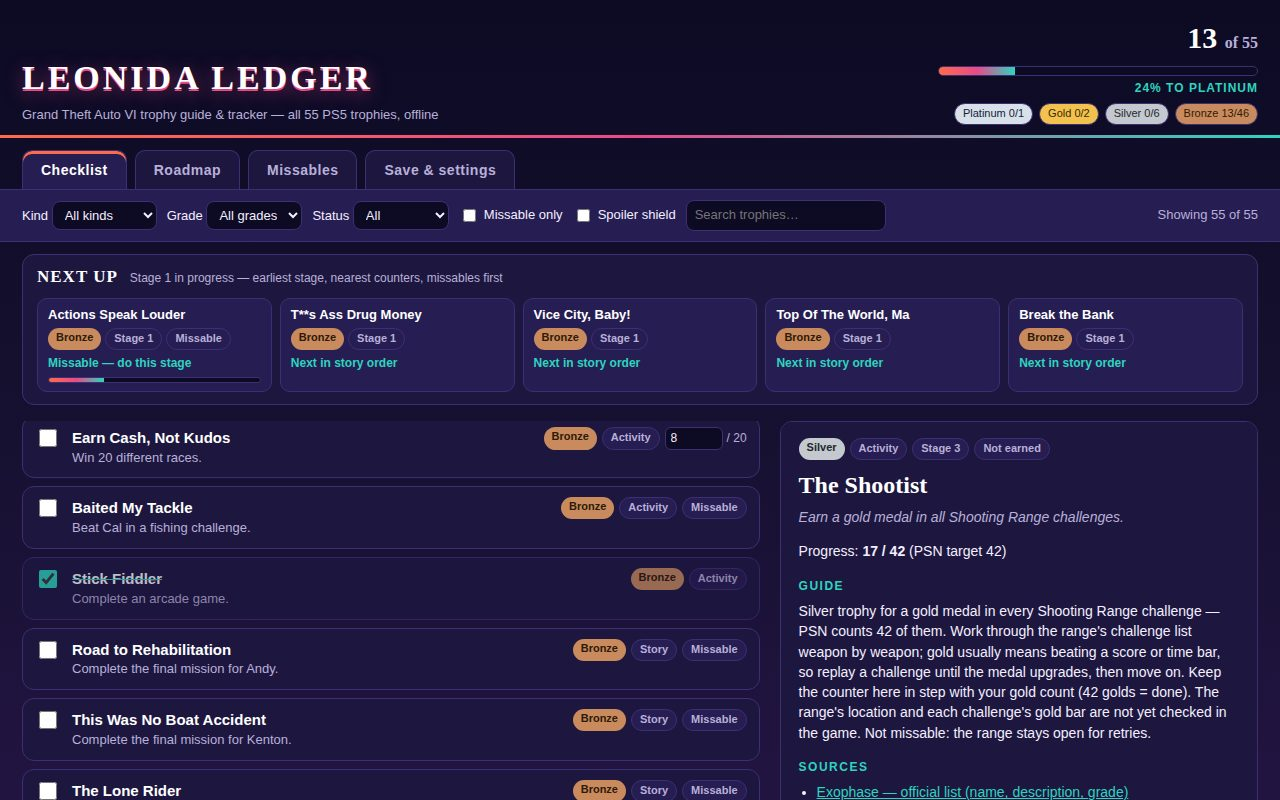
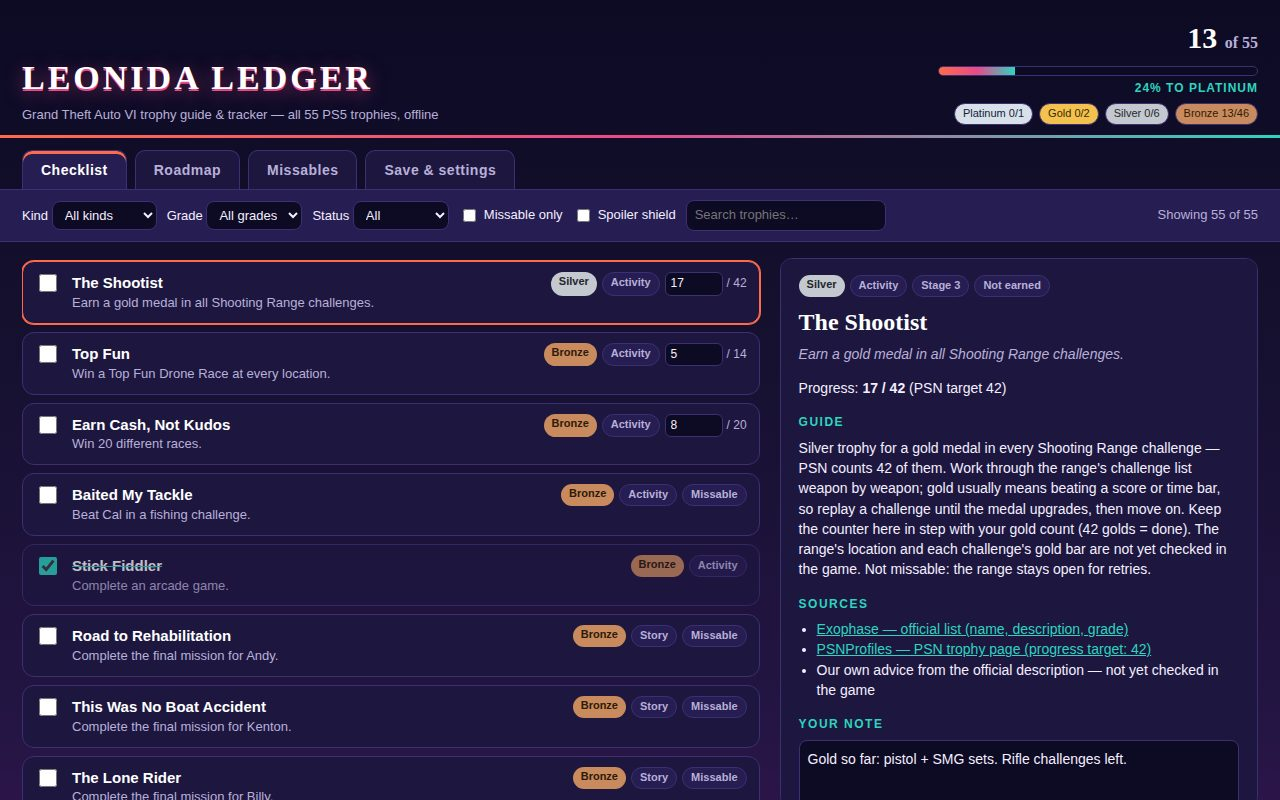
V3: move Next-up planner to Roadmap view, restore v1 checklist cover, re-stage screenshots

Changed region(s): [[0.0, 0.3125, 0.9688, 1.0]]

diff --git a/app/js/main.js b/app/js/main.js
@@ -49,28 +49,22 @@ function render() {
   const main = document.getElementById('view-main');
   const detail = document.getElementById('detail-pane');
   const bar = document.getElementById('filter-bar');
-  const nextUp = document.getElementById('next-up');
   if (state.view === 'checklist') {
     bar.hidden = false;
-    nextUp.hidden = false;
     main.innerHTML = renderChecklist(state.trophies, state.progress, state.filters, state.selectedId);
     const count = main.querySelectorAll('.row').length;
     bar.innerHTML = renderFilterBar(state.filters, state.progress, count, state.trophies.length);
-    nextUp.innerHTML = renderNextUp(state.trophies, state.progress);
     detail.innerHTML = renderDetailPane(selectedTrophy(), state.progress);
   } else if (state.view === 'roadmap') {
     bar.hidden = true;
-    nextUp.hidden = true;
-    main.innerHTML = renderRoadmapView(state.trophies, state.progress);
+    main.innerHTML = '<section id="next-up" class="next-up" aria-label="Next up planner">' + renderNextUp(state.trophies, state.progress) + '</section>' + renderRoadmapView(state.trophies, state.progress);
     detail.innerHTML = renderDetailPane(selectedTrophy(), state.progress);
   } else if (state.view === 'missables') {
     bar.hidden = true;
-    nextUp.hidden = true;
     main.innerHTML = renderMissablesView(state.trophies, state.progress);
     detail.innerHTML = renderDetailPane(selectedTrophy(), state.progress);
   } else {
     bar.hidden = true;
-    nextUp.hidden = true;
     main.innerHTML = renderSaveView(state.progress);
     detail.innerHTML = renderDetailPane(selectedTrophy(), state.progress);
   }

diff --git a/app/css/base.css b/app/css/base.css
@@ -137,7 +137,7 @@ body {
   .stat-chips { justify-content: flex-start; }
 }
 
-.next-up { margin: 12px 22px 0; background: var(--panel); border: 1px solid var(--line); border-radius: var(--radius); padding: 10px 14px 12px; }
+.next-up { margin: 0; background: var(--panel); border: 1px solid var(--line); border-radius: var(--radius); padding: 10px 14px 12px; }
 .next-up[hidden] { display: none; }
 .next-up-head { display: flex; align-items: baseline; gap: 12px; flex-wrap: wrap; }
 .next-up-head h2 { font-family: Georgia, serif; font-size: 17px; margin: 0; color: #fff; letter-spacing: 1px; text-transform: uppercase; }

diff --git a/app/index.html b/app/index.html
@@ -21,7 +21,6 @@
   <button type="button" data-view="save">Save &amp; settings</button>
 </nav>
 <div id="filter-bar" class="filter-bar"></div>
-<section id="next-up" class="next-up" aria-label="Next up planner"></section>
 <main class="layout">
   <section id="view-main" class="view-main" aria-label="Trophy list"></section>
   <aside id="detail-pane" class="detail-pane" aria-label="Trophy guide detail"></aside>

diff --git a/README.md b/README.md
@@ -9,7 +9,7 @@ An offline guide and tracker for all 55 PlayStation 5 trophies of Grand Theft Au
 ## What it is
 
 - **Checklist** of the official 55 (1 platinum, 2 gold, 6 silver, 46 bronze) with official names, descriptions and grades, saved progress in `localStorage`, progress counters for the 22 trophies PSN tracks by count (42 Shooting Range golds, 250 stunts, 100 WAiNK locations, …), per-trophy notes, and filters by kind, grade, status, missable-only and text search.
-- **Next-up planner** above the checklist: the next five unearned trophies, earliest roadmap stage first, counters nearest completion first (e.g. 17/42), missables in the current stage flagged — click one to open its guide.
+- **Next-up planner** at the top of the Roadmap view: the next five unearned trophies, earliest roadmap stage first, counters nearest completion first (e.g. 17/42), missables in the current stage flagged — click one to open its guide.
 - **Keyboard shortcuts**: `j`/`k` or arrows move the selection, `Space`/`Enter` toggles earned, `/` focuses search, `1`–`4` switch views.
 - **Guide pane** for every trophy: our own words from the official description — what to do, how to track it, when it can be missed — with sources cited beside each guide (Exophase for the official list, PSNProfiles for PSN counts, and our own advice, honestly marked where a place is not yet checked in the game).
 - **Roadmap** to the platinum in four stages (story run → strands & people → activities & crime → collectibles & cleanup) with per-stage progress.
